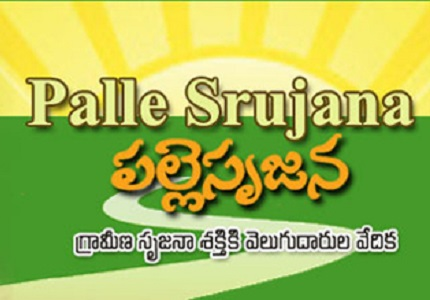
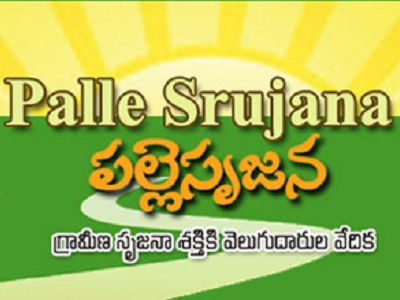
changed image size in community

diff --git a/index.md b/index.md
@@ -125,19 +125,19 @@ The major challenge is to bring the two groups together in a mutually beneficial
 
 <div class="row">
   <div class="column">
-    <img src="assets/images/purdue.png" alt="Purdue University" style="height:40%">
+    <img src="assets/images/purdue.png" alt="Purdue University" style="width:200px;height:auto">
   </div>
   <div class="column">
-    <img src="assets/images/ieee.png" alt="EPICS in IEEE" style="height:40%">
+    <img src="assets/images/ieee.png" alt="EPICS in IEEE" style="width:200px;height:auto">
   </div>
   <div class="column">
-    <img src="assets/images/iucee.png" alt="IUCEE" style="height:40%">
+    <img src="assets/images/iucee.png" alt="IUCEE" style="width:200px;height:auto">
   </div>
   <div class="column">
-    <img src="assets/images/unnat.png" alt="Unnat Bharat Abhiyan" style="height:40%">
+    <img src="assets/images/unnat.png" alt="Unnat Bharat Abhiyan" style="width:200px;height:auto">
   </div>
   <div class="column">
-    <img src="assets/images/pallesrujana.png" alt="Palle Srujana" style="height:40%">
+    <img src="assets/images/pallesrujana.png" alt="Palle Srujana" style="width:200px;height:auto">
   </div>
 </div>
 
